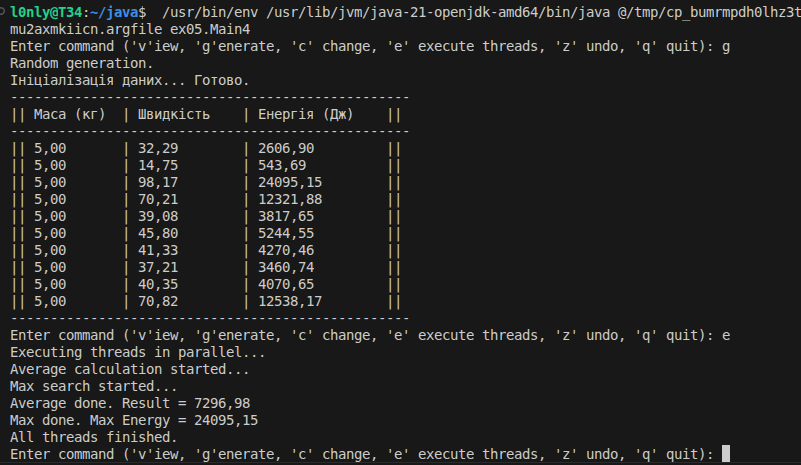
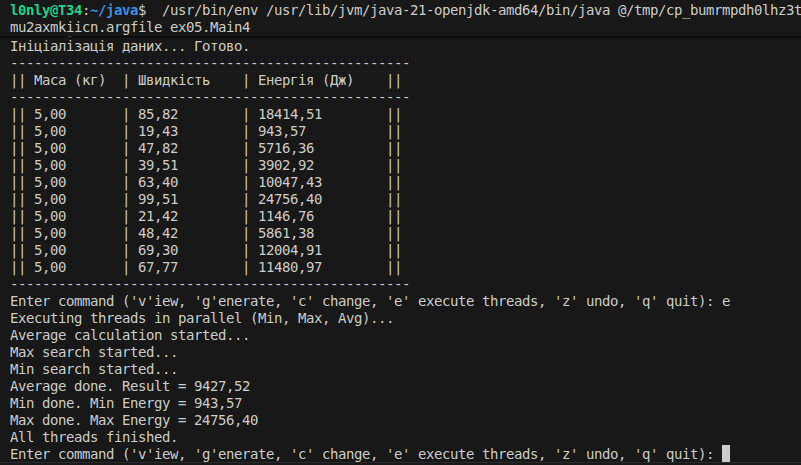
Final fix

diff --git a/practice/code/Mainproject_java/src/ex05/MinCommand.java b/practice/code/Mainproject_java/src/ex05/MinCommand.java
@@ -1,0 +1,40 @@
+package ex05;
+
+import ex02.ViewResult;
+import ex04.Command;
+import java.util.concurrent.TimeUnit;
+
+/**
+ * Пошук мінімального значення паралельно.
+ * @author Пилипенко
+ */
+public class MinCommand implements Command {
+    private double minEnergy = Double.MAX_VALUE;
+    private int progress = 0;
+    private ViewResult viewResult;
+
+    public MinCommand(ViewResult viewResult) { this.viewResult = viewResult; }
+    public boolean running() { return progress < 100; }
+
+    @Override
+    public void execute() {
+        progress = 0;
+        System.out.println("Min search started...");
+        int size = viewResult.getItems().size();
+        if (size == 0) { progress = 100; return; }
+
+        for (int i = 0; i < size; i++) {
+            double current = viewResult.getItems().get(i).getEnergy();
+            if (current < minEnergy) {
+                minEnergy = current;
+            }
+            progress = (i * 100) / size;
+            try { TimeUnit.MILLISECONDS.sleep(12); } catch (InterruptedException e) {} 
+        }
+        System.out.println("Min done. Min Energy = " + String.format("%.2f", minEnergy));
+        progress = 100;
+    }
+
+    @Override
+    public void undo() {} 
+}

diff --git a/practice/code/Mainproject_java/src/ex05/ExecuteConsoleCommand.java b/practice/code/Mainproject_java/src/ex05/ExecuteConsoleCommand.java
@@ -22,20 +22,24 @@ public class ExecuteConsoleCommand implements ConsoleCommand {
     public void execute() {
         CommandQueue queue1 = new CommandQueue();
         CommandQueue queue2 = new CommandQueue();
+        CommandQueue queue3 = new CommandQueue(); // Додаємо третю чергу
 
         MaxCommand maxCmd = new MaxCommand((ViewResult) view);
         AvgCommand avgCmd = new AvgCommand((ViewResult) view);
+        MinCommand minCmd = new MinCommand((ViewResult) view); // Створюємо команду мін
 
-        System.out.println("Executing threads in parallel...");
+        System.out.println("Executing threads in parallel (Min, Max, Avg)...");
         queue1.put(maxCmd);
         queue2.put(avgCmd);
+        queue3.put(minCmd); // Кладемо в чергу
 
         try {
-            while (maxCmd.running() || avgCmd.running()) {
+            while (maxCmd.running() || avgCmd.running() || minCmd.running()) {
                 TimeUnit.MILLISECONDS.sleep(100);
             }
             queue1.shutdown();
             queue2.shutdown();
+            queue3.shutdown();
             TimeUnit.SECONDS.sleep(1);
         } catch (InterruptedException e) {
             System.err.println(e);
